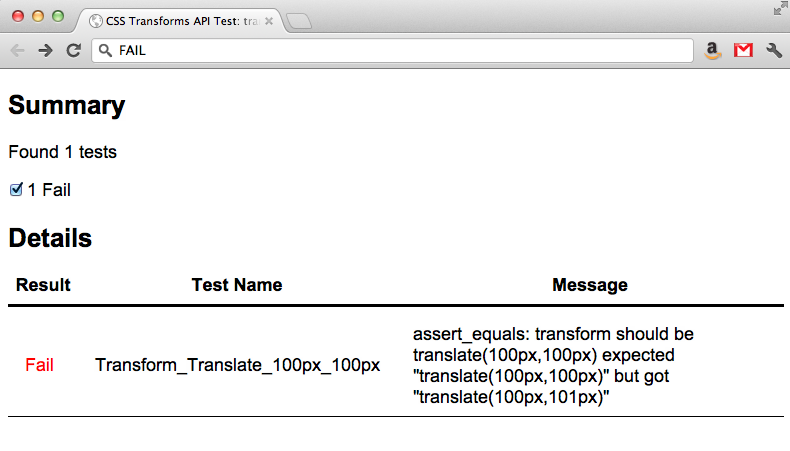
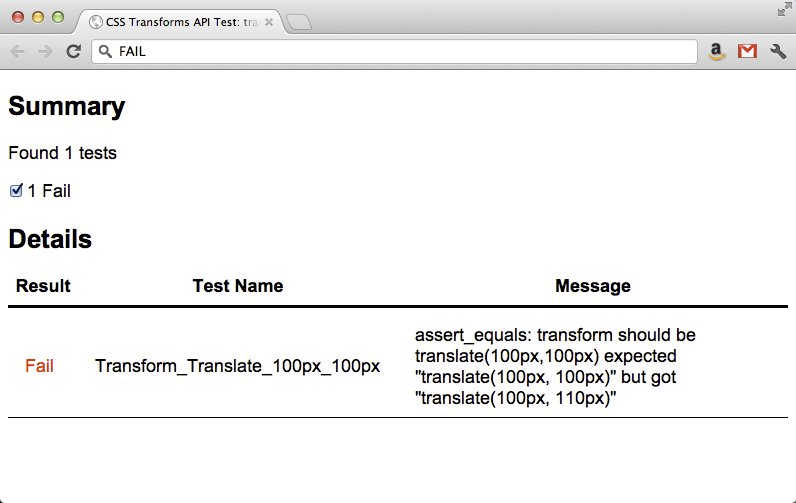
Update JS Example

diff --git a/presentations/test-the-web-forward-overview/index.html b/presentations/test-the-web-forward-overview/index.html
@@ -569,27 +569,27 @@
 			    <section>
 			        <h3>Metadata</h3>
 			        <section>
-    			        <pre>
-    			            <code class="html">
+    			        <pre style="width:1000px">
+    			            <code class="html" style="line-height:26px; font-size:18px">
 &lt;head&gt;
-    &lt;title&gt;CSS Transforms API Test: transform translate&lt;/title&gt;
-    &lt;link rel="author" title="Your Name" href="mailto:youremail@address.com"&gt;
-    &lt;link rel="help" href="http://www.w3.org/TR/css3-transforms/#transform-property"&gt;
-    &lt;link rel="help" href="http://www.w3.org/TR/css3-transforms/#two-d-transform-functions"&gt;
-    &lt;meta name="flags" content="dom"&gt;
-    &lt;meta name="assert" content="The transform should be translate(100px,100px)"&gt;	
+  &lt;title&gt;CSS Transforms API Test: transform translate&lt;/title&gt;
+  &lt;link rel="author" title="Your Name" href="mailto:youremail@address.com"&gt;
+  &lt;link rel="help" href="http://www.w3.org/TR/css3-transforms/#transform-property"&gt;
+  &lt;link rel="help" href="http://www.w3.org/TR/css3-transforms/#two-d-transform-functions"&gt;
+  &lt;meta name="flags" content="dom"&gt;
+  &lt;meta name="assert" content="The transform should be translate(100px,100px)"&gt;	
 ...    
 &lt;/head&gt;                
     			            </code>
     			        </pre>
     			        <ul>
     			            <li>JavaScript tests have similar requirements as RefTest</li>
-    			            <li>flags metadata "dom" used to specify that JavaScript is required</li>
+    			            <li>flags "dom" token specifies that JavaScript is required</li>
     			            <li>JSON metadata supports build system (not shown)</li>
     			    </section>
     			    <section>
     			        <pre>
-    			            <code class="html">
+    			            <code class="html" style="line-height:26px">
 &lt;head&gt;
 ...    
     &lt;script src="/resources/testharness.js"&gt;&lt;/script&gt;
@@ -608,10 +608,10 @@
     			    </section>
 			    </section>
 			    
-			    <section>
+			    <section data-state="largePage">
 			        <h3>Body</h3>
-			        <pre>
-			            <code class="html">
+			        <pre style="width:900px">
+			            <code class="html" style="line-height:22px; font-size:14px">
 &lt;body&gt;
     &lt;div id="myDiv"&gt;&lt;/div&gt;
     &lt;div id="log"&gt;&lt;/div&gt;    
@@ -622,20 +622,20 @@
 
         // Verify that the transform was set as expected
         test(function() {assert_equals(
-                        document.getElementById("myDiv").style.transform, // Actual
-                        "translate(100px, 100px)",  // Expected
-                        "transform should be translate(100px,100px)")}, // Description
-                        "Transform_Translate_100px_100px"); // name
+                document.getElementById("myDiv").style.getPropertyCSSValue("transform").cssText, // Actual
+                "translate(100px, 100px)",  // Expected
+                "transform should be translate(100px,100px)")}, // Description
+                "Transform_Translate_100px_100px"); // name
     &lt;/script&gt;
 &lt;/body&gt;			                
 			            </code>
 			        </pre>
-			        <ul style="font-size:30px">
+			        <ul style="font-size:28px">
 			            <li>div "myDiv" used as test element - translate applied in JS</li>
 			            <li>div "log" used as container for test results</li>
 			            <li>test() uses assert_equals as test_function</li>
                         <li>assert_equals actual value supplied by transform</li>
-			        </ul>
+			        </ul>			        
 			    </section>
  			    
     			<section data-state="largePage">
